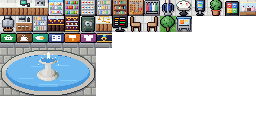
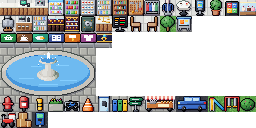
현대 세계 지도: 가로는 56칸으로 되돌리고 아래로 두 배(56x48) 확장, 거리 기물 19종
- 아래쪽: 2차선 길, 연못·놀이터가 있는 공원, 주차장, 포장마차 먹자골목
- 거리 기물: 소화전, 우체통, 볼라드, 화단, 자전거 거치대, 라바콘, 공중전화, 분리수거함, 이정표,
  포장마차, 주차된 차, 미끄럼틀, 그네, 덤불, 배달 오토바이, 택배 상자, 주차 정산기 (누르면 둘러보기)

Claude-Session: https://claude.ai/code/session_01APSKFNB8xpLfNtbCfNBsyA

Changed region(s): [[0.0, 0.75, 1.0, 1.0]]

diff --git a/core/src/main/java/com/shatteredpixel/shatteredpixeldungeon/levels/ModernLevel.java b/core/src/main/java/com/shatteredpixel/shatteredpixeldungeon/levels/ModernLevel.java
@@ -68,38 +68,60 @@ public class ModernLevel extends Level {
 	// L 가로등   V 자판기   T 쓰레기통   b 벤치   " 화단   ~ 분수   @ 도착 지점
 	// 가게 안쪽(10x7)은 아래 SHOP_LAYOUTS 로 따로 채움
 	private static final String[] MAP = {
-		"####################################################################",
-		"#..........#..........#..........#..........#..........#t\"\"t\"\"\"t\"\"t#",
-		"#..........#..........#..........#..........#..........#\"\"\"_____\"\"\"#",
-		"#..........#..........#..........#..........#..........#\"t_______t\"#",
-		"#..........#..........#..........#..........#..........#\"\"__b_b__\"\"#",
-		"#..........#..........#..........#..........#..........#\"t_______t\"#",
-		"#..........#..........#..........#..........#..........#\"\"\"__V__\"\"\"#",
-		"#..........#..........#..........#..........#..........#t\"\"_____\"\"t#",
-		"####s+#########s+#########s+#########s+#########s+######\"\"\"_____\"\"\"#",
-		"#_________V_____________________V____________________V_____________#",
-		"#_L__________L______T___L__________L______T___L__________L___B__L__#",
-		"#,,,,,,,,,,,,,,,,,,,,,,,,,,,,,,,,,,,,,,,,,,,,,,,,,,,,,,,,,,,,,,,,,,#",
-		"#,,,,,,,,,,,,,,,,,,,,,,,,,,,,,,,,,,,,,,,,,,,,,,,,,,,,,,,,,,,,,,,,,,#",
-		"#,,,,,,,,,,,,,,,,,,,,,,,,,,,,,,,,,,,,,,,,,,,,,,,,,,,,,,,,,,,,,,,,,,#",
-		"#,,,,,,,,,,,,,,,,,,,,,,,,,,,,,,,,,,,,,,,,,,,,,,,,,,,,,,,,,,,,,,,,,,#",
-		"#_L_____T____L__________L__________L_____T____L__________L______L__#",
-		"#__________V________b_____________b_________V______________________#",
-		"####s+######___________________________________________####s+#######",
-		"#..........#\"\"_______________________________________\"\"#..........##",
-		"#..........#\"__t_____L________FFFFFF_________L_____t__\"#..........##",
-		"#..........#_____________b____FFFFFF____b______________#..........##",
-		"#..........#__________________FFFFFF___________________#..........##",
-		"#..........#___________________________________________#..........##",
-		"#..........#___t_____L__b__@______________b__L_____t___#..........##",
-		"#..........#\"__________T___________________T__________\"#..........##",
-		"####################################################################",
+		"########################################################",
+		"#..........#..........#..........#..........#..........#",
+		"#..........#..........#..........#..........#..........#",
+		"#..........#..........#..........#..........#..........#",
+		"#..........#..........#..........#..........#..........#",
+		"#..........#..........#..........#..........#..........#",
+		"#..........#..........#..........#..........#..........#",
+		"#..........#..........#..........#..........#..........#",
+		"####s+#########s+#########s+#########s+#########s+######",
+		"#_________V__p_______m__________V__p_______P_________V_#",
+		"#__o___o____L__T___L__h__o___o___B___L__T___L__o___o___#",
+		"#,,,,,,,,,,,,,,,,,,,,,,,,,,,,,,,,,,,,,,,,,,,,,,,,,,,,,,#",
+		"#,,,,,,,,,,,,,,,,,,,,,,,,,,,,,,,,,,,,,,,,,,,,,,,,,,,,,,#",
+		"#,,,,,,,,,,,,,,,,,,,,,,,,,,,,,,,,,,,,,,,,,,,,,,,,,,,,,,#",
+		"#,,,,,,,,,,,,,,,,,,,,,,,,,,,,,,,,,,,,,,,,,,,,,,,,,,,,,,#",
+		"#__o___o____L______L__g__o___o___h___L______L__o___o___#",
+		"#__________V__k_____T_____________p_____k___V__________#",
+		"####s+######________________________________####s+######",
+		"#..........#\"\"_t________________________t_\"\"#..........#",
+		"#..........#______L______FFFFFF______L______#..........#",
+		"#..........#_________b___FFFFFF___b_________#..........#",
+		"#..........#__p__________FFFFFF__________p__#..........#",
+		"#..........#___t__L__________________L__t___#..........#",
+		"#..........#__________b____@_____b__________#..........#",
+		"#..........#\"_______T______________T_______\"#..........#",
+		"############__p___p___p__o____o__p___p___p__############",
+		"#___L___________L____T_________________L______T____L___#",
+		"#_______o___o_____m______o___o____V________o___o_______#",
+		"#,,,,,,,,,,,,,,,,,,,,,,,,,,,,,,,,,,,,,,,,,,,,,,,,,,,,,,#",
+		"#,,,,,,,,,,,,,,,,,,,,,,,,,,,,,,,,,,,,,,,,,,,,,,,,,,,,,,#",
+		"#_______o___o_______g____o___o_____B_______o___o_______#",
+		"#_k_L___________L______________________L___________L_P_#",
+		"#t\"\"\"t\"\"\"__\"\"\"t\"\"tp,,,,,,,,,,,,,,,,,,p_____L_________xx#",
+		"#\"\"u\"\"\"\"\"__\"\"\"\"\"\"\"uc,,,,,,,,,,,,,,,,Mu_nN_____nN_______#",
+		"#\"\"~~~~\"\"__\"\"S\"\"u\"u,CD,,CD,,,,,CD,,,,u______________b__#",
+		"#\"\"~~~~u\"__\"\"\"\"W\"\"u,,,,,,,,,,,,,,,,,,u________________P#",
+		"#\"\"~~~~\"\"__\"b\"\"\"\"\"uc,CD,,,,CD,,,,CD,,up_____Z__________#",
+		"#t\"\"\"\"\"\"b__\"\"\"\"\"\"tu,,,,,,,,,,,,,,,,,,u____b_______nN___#",
+		"#__________________,,,,,,,,,,,,,,,,,,_________________V#",
+		"#t\"\"\"\"\"\"\"__\"\"\"\"\"\"t_,,,,,,,c,,,c,,,,,,____________g_____#",
+		"#\"\"\"\"b\"\"\"__b\"\"\"V\"\"u,,,,,,,,,,,,,,,,,,ur_nN____________r#",
+		"#\"u\"\"\"\"\"\"__\"\"\"\"\"\"\"u,,,,,,,,,,,,,,,,,,u_____________L___#",
+		"#\"\"\"\"\"\"\"\"__\"\"\"\"t\"\"u,CD,,CD,,CD,,,CD,,u__________b______#",
+		"#\"\"\"t\"\"\"\"__\"\"\"\"\"\"\"u,,,,,,,,,,,,,,,,,,u_________________#",
+		"#\"\"\"\"\"\"u\"__\"u\"\"\"\"\"u,,,CD,,,,,,CD,,,,,u_______nN_______x#",
+		"#\"\"T\"\"\"\"\"__\"\"\"\"\"\"\"u,,,,,,,,,,,,,,,,,,ux________________#",
+		"#t\"\"\"\"t\"\"__\"\"t\"\"\"tuc,,,,,,,,,,,,,,,,cum____L___T_____Z_#",
+		"########################################################",
 	};
 
 	//가게 안쪽 왼쪽 위 좌표 (위쪽 5곳, 아래쪽 2곳)
 	private static final int[][] SHOP_POS = {
 			{1, 1}, {12, 1}, {23, 1}, {34, 1}, {45, 1},     //편의점, 카페, 금은방, 약국, 서점
-			{1, 18}, {56, 18}                              //철물점, 옷가게
+			{1, 18}, {45, 18}                              //철물점, 옷가게
 	};
 	private static final ModernClerk.Shop[] SHOP_TYPES = {
 			ModernClerk.Shop.CONVENIENCE, ModernClerk.Shop.CAFE, ModernClerk.Shop.JEWELRY,
@@ -197,6 +219,18 @@ public class ModernLevel extends Level {
 	private static final int TREE_IMG = 26;
 	private static final int BUS_IMG  = 27;
 	private static final int FOUNTAIN_IMG = 48;
+	//거리 잡동사니 기물 (96번부터)
+	private static final int STREET_IMG = 96;
+	private static final HashMap<Character, Integer> STREET = new HashMap<>();
+	static {
+		String chars = "hmopkcPrg";                  //소화전, 우체통, 볼라드, 화단, 자전거 거치대, 라바콘, 공중전화, 분리수거함, 이정표
+		for (int i = 0; i < chars.length(); i++) STREET.put( chars.charAt(i), STREET_IMG + i );
+		STREET.put( 'n', STREET_IMG + 9 );  STREET.put( 'N', STREET_IMG + 10 );   //포장마차 (2칸)
+		STREET.put( 'C', STREET_IMG + 11 ); STREET.put( 'D', STREET_IMG + 12 );   //주차된 차 (2칸)
+		STREET.put( 'S', STREET_IMG + 13 ); STREET.put( 'W', STREET_IMG + 14 );   //미끄럼틀, 그네
+		STREET.put( 'u', STREET_IMG + 15 ); STREET.put( 'Z', STREET_IMG + 16 );   //덤불, 배달 오토바이
+		STREET.put( 'x', STREET_IMG + 17 ); STREET.put( 'M', STREET_IMG + 18 );   //택배 상자, 주차 정산기
+	}
 
 	private int arrival = -1;
 	private int[] clerkPos = new int[SHOP_POS.length];
@@ -249,6 +283,9 @@ public class ModernLevel extends Level {
 					case '"': map[cell] = Terrain.GRASS; break;
 					case '~': map[cell] = Terrain.WATER; break;
 					case 't': map[cell] = Terrain.CUSTOM_DECO; props.data[cell] = TREE_IMG; break;
+					case 'h': case 'm': case 'o': case 'p': case 'k': case 'c': case 'P': case 'r': case 'g':
+					case 'n': case 'N': case 'C': case 'D': case 'S': case 'W': case 'u': case 'Z': case 'x': case 'M':
+						map[cell] = Terrain.CUSTOM_DECO; props.data[cell] = STREET.get( c ); break;
 					case 'B': map[cell] = Terrain.CUSTOM_DECO; props.data[cell] = BUS_IMG; break;
 					case 'F':
 						//분수: 처음 만난 F 칸이 왼쪽 위
@@ -297,6 +334,12 @@ public class ModernLevel extends Level {
 		ModernRoad road = new ModernRoad();
 		road.setRect( 1, 11, width() - 2, 4 );
 		customTiles.add( road );
+		//아래쪽 2차선 길
+		if (height() > 30) {
+			ModernSideRoad side = new ModernSideRoad();
+			side.setRect( 1, 28, width() - 2, 2 );
+			customTiles.add( side );
+		}
 
 		//가장자리는 항상 벽
 		for (int x = 0; x < width(); x++) {
@@ -326,7 +369,7 @@ public class ModernLevel extends Level {
 		//예전 버전(가로 33칸)으로 만들어진 층
 		if (width() == 33) return 16 + 14 * width();
 		if (width() == 45) return 22 + 21 * width();
-		if (width() == 56) return 27 + 21 * width();
+		if (width() == 56 && height() == 24) return 27 + 21 * width();
 		return 27 + 23 * width();
 	}
 
@@ -530,12 +573,21 @@ public class ModernLevel extends Level {
 		if (cell < 0 || cell >= length()) return false;
 		if (map[cell] == Terrain.STATUE_SP) return true;      //자판기
 		if (map[cell] == Terrain.CUSTOM_DECO && isFountain( cell )) return true;
+		if (map[cell] == Terrain.CUSTOM_DECO && streetAt( cell ) >= 0) return true;
 		return map[cell] == Terrain.CUSTOM_DECO && propAt( cell ) >= 0;
 	}
 
 	private boolean isFountain( int cell ){
 		ModernProps p = props();
-		return p != null && p.data != null && cell >= 0 && cell < p.data.length && p.data[cell] >= FOUNTAIN_IMG;
+		return p != null && p.data != null && cell >= 0 && cell < p.data.length
+				&& p.data[cell] >= FOUNTAIN_IMG && p.data[cell] < STREET_IMG;
+	}
+
+	private int streetAt( int cell ){
+		ModernProps p = props();
+		if (p == null || p.data == null || cell < 0 || cell >= p.data.length) return -1;
+		int d = p.data[cell];
+		return d >= STREET_IMG && d < STREET_IMG + ModernProps.STREET_KEYS.length ? d : -1;
 	}
 
 	//분수에 동전 던지기
@@ -560,6 +612,12 @@ public class ModernLevel extends Level {
 	public void interact( final int cell ){
 		if (isFountain( cell )){
 			tossCoin();
+			return;
+		}
+		int street = streetAt( cell );
+		if (street >= 0){
+			String k = ModernProps.STREET_KEYS[street - STREET_IMG];
+			showFlavor( street, k, k );
 			return;
 		}
 		if (map[cell] == Terrain.STATUE_SP){
@@ -604,13 +662,18 @@ public class ModernLevel extends Level {
 	}
 
 	private void showFlavor( final int prop, final String key ){
-		final String title = Messages.titleCase( Messages.get( ModernLevel.class, "prop_" + ModernProps.KEYS[prop] + "_name" ) );
-		final String text = Messages.get( ModernLevel.class, "use_" + key + "_" + Random.Int( 2 ) );
+		showFlavor( prop, ModernProps.KEYS[prop], key );
+	}
+
+	//img: 그림 번호, nameKey: 이름 열쇠, useKey: 둘러보기 글 열쇠
+	private void showFlavor( final int img, final String nameKey, final String useKey ){
+		final String title = Messages.titleCase( Messages.get( ModernLevel.class, "prop_" + nameKey + "_name" ) );
+		final String text = Messages.get( ModernLevel.class, "use_" + useKey + "_" + Random.Int( 2 ) );
 		com.watabou.noosa.Game.runOnRenderThread( new com.watabou.utils.Callback() {
 			@Override
 			public void call() {
 				com.watabou.noosa.Image icon = new com.watabou.noosa.Image( Assets.Environment.MODERN_PROPS,
-						(prop % 16) * 16, (prop / 16) * 16, 16, 16 );
+						(img % 16) * 16, (img / 16) * 16, 16, 16 );
 				com.shatteredpixel.shatteredpixeldungeon.scenes.GameScene.show(
 						new com.shatteredpixel.shatteredpixeldungeon.windows.WndTitledMessage( icon, title, text ) );
 			}
@@ -726,6 +789,11 @@ public class ModernLevel extends Level {
 				"jewel_counter", "jewel_cabinet", "safe", "scale_counter", "price_board",
 				"cafe_chair", "cafe_chair", "tree", "bus_stop"
 		};
+		//거리 기물
+		public static final String[] STREET_KEYS = {
+				"hydrant", "mailbox", "bollard", "planter", "bike_rack", "cone", "phone_booth", "recycle_bins", "signpost",
+				"food_cart", "food_cart", "parked_car", "parked_car", "slide", "swing", "bush", "scooter", "boxes", "pay_machine"
+		};
 		//가게 종류 순서 (ModernClerk.Shop)
 		private static final String[] SIGN_KEYS = {
 				"sign_convenience", "sign_cafe", "sign_pharmacy", "sign_bookstore", "sign_hardware", "sign_clothing",
@@ -755,7 +823,8 @@ public class ModernLevel extends Level {
 			int img = data[i];
 			if (img >= 0 && img < KEYS.length) return KEYS[img];
 			if (img >= SIGN_IMG && img < SIGN_IMG + SIGN_KEYS.length) return SIGN_KEYS[img - SIGN_IMG];
-			if (img >= FOUNTAIN_IMG) return "fountain";
+			if (img >= STREET_IMG && img < STREET_IMG + STREET_KEYS.length) return STREET_KEYS[img - STREET_IMG];
+			if (img >= FOUNTAIN_IMG && img < STREET_IMG) return "fountain";
 			return null;
 		}
 
@@ -799,6 +868,21 @@ public class ModernLevel extends Level {
 		public Tilemap create() {
 			Tilemap v = super.create();
 			v.map( mapSimpleImage( 0, 0, 2048 ), tileW );
+			return v;
+		}
+	}
+
+	//아래쪽 2차선 길 (도로 그림의 5~6번째 줄)
+	public static class ModernSideRoad extends CustomTilemap {
+
+		{
+			texture = Assets.Environment.MODERN_ROAD;
+		}
+
+		@Override
+		public Tilemap create() {
+			Tilemap v = super.create();
+			v.map( mapSimpleImage( 0, 4, 2048 ), tileW );
 			return v;
 		}
 	}
